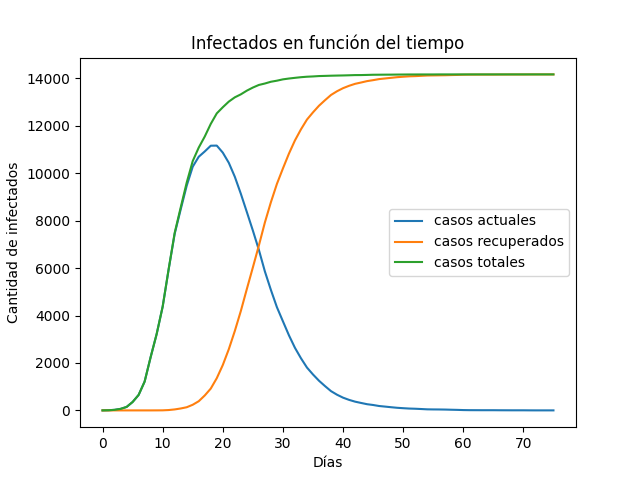
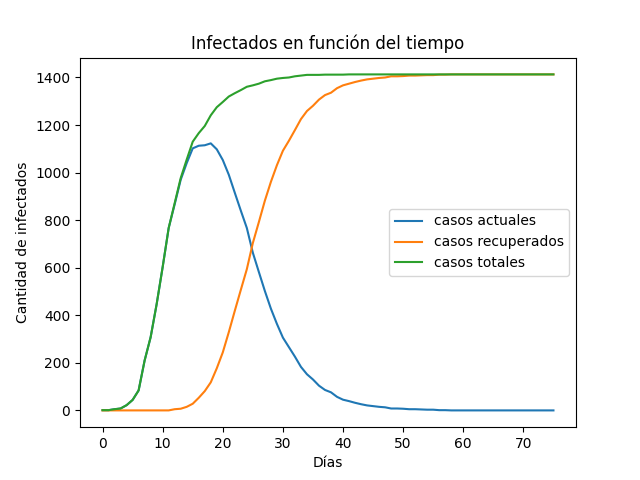
Cambios estructurales: listos

diff --git a/main.py b/main.py
@@ -1,6 +1,6 @@
 from collections import defaultdict
 from personas import Persona
-from simulation_parameters import simulation_parameters, simulation_contagios
+from simulation_parameters import simulation_parameters
 from Codigo_Graficos import graficar_infectados
 import os #https://stackoverflow.com/questions/7165749/open-file-in-a-relative-location-in-python
 import re # https://stackoverflow.com/questions/1249388/removing-all-non-numeric-characters-from-string-in-python
@@ -21,9 +21,7 @@ def crear_grafo ( personas, reuniones):
         data_reuniones[dia].append(parcial)
     #dia es el dia mas alto
     "Se simulan los parametros necesarios para cada persona"
-    parametros = simulation_parameters(CODIGO,SEED,dia)
-    recuperaciones = parametros [0] ##cantidad de dia desde la infeccion que su estado cambia a Inmune
-    sintomas = parametros[1] #cantidad de dia desde la infeccion que su estado de Enfermos con Sintomas
+    #cantidad de dia desde la infeccion que su estado de Enfermos con Sintomas
     """ Crea un diccionario donde se almacenan las persoans"""
     data_personas = dict()
     with open (personas) as file:
@@ -32,8 +30,7 @@ def crear_grafo ( personas, reuniones):
     for i in inter:
         persona = i.split(":")
         id = int(persona[0])
-        data_personas[id]= Persona(id,float(persona[1]),recuperaciones[id],sintomas[id])
-
+        data_personas[id]= Persona(id,float(persona[1]))
     return (data_personas,data_reuniones)
 
 
@@ -63,28 +60,27 @@ def determinar_contagiados(grafo, p0 ,delta_dias):
 
 def simular_contagio( grafo, p0, delta_dias, s):
     #vectores = infectados actuales
-
-    data_reuniones = grafo[1]
     data_personas = grafo[0]
-    contagios = simulation_contagios(len(data_personas),delta_dias,SEED)
-
-
+    data_reuniones = grafo[1]
+    parametros = simulation_parameters(len(data_personas),delta_dias,SEED)
+    dias_recuperacion = parametros[0]
+    #print(dias_recuperacion)
+    dias_sintomas = parametros[1]
+    #print(sintomas)
+    contagios = parametros[2]
     vectores = set()
     vectores.add(p0)
     infectados = set()
     infectados.add(p0)
     recuperados = set()
 
-    # EL paciente P se enferma si o si
-    data_personas[p0].contacto(0)
-    print(data_personas[p0])
+    data_personas[p0].contacto(0,dias_recuperacion[p0] , dias_sintomas[p0])
     datos_infectados = []
     datos_recuperados = []
     datos_it = []
     dias = []
 
     for t in range (0,delta_dias+1):
-
         if VERBOSO:
             print(f"Comienza DIA {t}")
             print("Inf:",len(infectados),"-Vect:",len(vectores),"-Rec:",len(recuperados))
@@ -100,8 +96,9 @@ def simular_contagio( grafo, p0, delta_dias, s):
                     #print("Reunion Infectada:",reunion , "Culpables:",culpables)
                 for posible_contagiado in reunion - culpables:
                     #print(data_personas[posible_contagiado]._probabilidad_contagio,contagios[t][posible_contagiado])
-                    data_personas[posible_contagiado].contacto(contagios[t][posible_contagiado])
-
+                    id = posible_contagiado
+                    if id not in recuperados and id not in infectados:
+                        data_personas[id].contacto(contagios[t][id],dias_recuperacion[id] , dias_sintomas[id])
         infectados = set()
         vectores = set()
         recuperados = set()
@@ -121,10 +118,16 @@ def simular_contagio( grafo, p0, delta_dias, s):
                 pass
             else:
                 print(F"ERROR ESTADO ANOMALO")
+    if VERBOSO:
+        print(f"Fin del DIA {t}")
+        print("Inf:",len(infectados),"-Vect:",len(vectores),"-Rec:",len(recuperados))
     return infectados,recuperados,{"t":dias,
             "i":datos_infectados,
             "it":datos_it,
             "r":datos_recuperados}
+
+
+
 def probabilidad_contagio(grafo,p0,delta_dias):
     for i in range (0,2):
         SEED = 0
@@ -133,15 +136,16 @@ if __name__ == '__main__':
     script_dir = os.path.dirname(__file__) #<-- absolute dir the script is in
     rel_path = "2091/data.txt"
     abs_file_path = os.path.join(script_dir, rel_path)
-    CODIGO = 15000
+    CODIGO = 1500
     SEED = 4
     p0 = 33 #pacoente original
-    delta_dias = 3 # Cantidad de dias
+    delta_dias = 75 # Cantidad de dias
     personas = os.path.join(script_dir, f"Instancias/personas_{CODIGO}.txt")
     reuniones = os.path.join(script_dir, f"Instancias/reuniones_{CODIGO}.txt")
     grafo = crear_grafo(personas,reuniones)
-    resultados = simular_contagio( grafo, 33, 75, SEED)
-    print(graficar_infectados(resultados[2]))
+    #determinar_contagiados(grafo,p0,delta_dias)
+    resultados = simular_contagio( grafo, 33, delta_dias, SEED)
+    grafico = graficar_infectados(resultados[2])
 
 
 #    posibles = determinar_contagiados(grafo,p0,delta_dias)

diff --git a/personas.py b/personas.py
@@ -1,12 +1,12 @@
 from simulation_parameters import simulation_parameters
 
 class Persona:
-    def __init__(self,id,probabilidad_contagio,dias_recuperacion,dias_sintomas):
+    def __init__(self,id,probabilidad_contagio):
         self._id = id
         self._probabilidad_contagio = probabilidad_contagio
         self.estado = "S" # S: sano; A asintomatico; E enfermo ; M muerto ; R recuperado
-        self._dias_recuperacion = dias_recuperacion #cuenta regresiva a recuperacion
-        self._dias_sintomas = min(dias_sintomas, dias_recuperacion) #cuenta regresiva a presentar sintomas
+        self._dias_recuperacion = 0#cuenta regresiva a recuperacion
+        self._dias_sintomas = 0 #cuenta regresiva a presentar sintomas
     @property
     def dias_recuperacion(self):
         return self._dias_recuperacion
@@ -26,9 +26,11 @@ class Persona:
             self._dias_sintomas = 0
             self.estado = "E"
         self._dias_sintomas = a
-    def contacto(self,dado):
-        if dado <= self._probabilidad_contagio:
-            self.estado = "A"""
+    def contacto(self,dado,dias_recuperacion,dias_sintomas):
+        if self.estado == "S" and dado <= self._probabilidad_contagio:
+            self.estado = "A"
+            self._dias_recuperacion = dias_recuperacion
+            self._dias_sintomas = min(dias_sintomas, dias_recuperacion)
 
     def pasar_dia (self):
         if self.estado in ["A","E"]:

diff --git a/simulation_parameters.py b/simulation_parameters.py
@@ -4,7 +4,7 @@ from numpy.random import seed as npseed
 
 
 
-def simulation_parameters(total, s, delta_t):
+def simulation_parameters(total, delta_t,s):
     seed(s)
     npseed(s)
     r_p = {i: poisson(15) for i in range(total)} # El tiempo de recuperacion
@@ -12,10 +12,3 @@ def simulation_parameters(total, s, delta_t):
     contagios = {t: {i: random() for i in range(total)} for t in range(delta_t + 1)}
 
     return r_p, c_p, contagios
-
-def simulation_contagios(total, dias, s,):
-    contagios = dict()
-    for t in range (0,dias+1):
-        contagios_dia = {i: random() for i in range(total)}
-        contagios[t] = contagios_dia
-    return contagios
